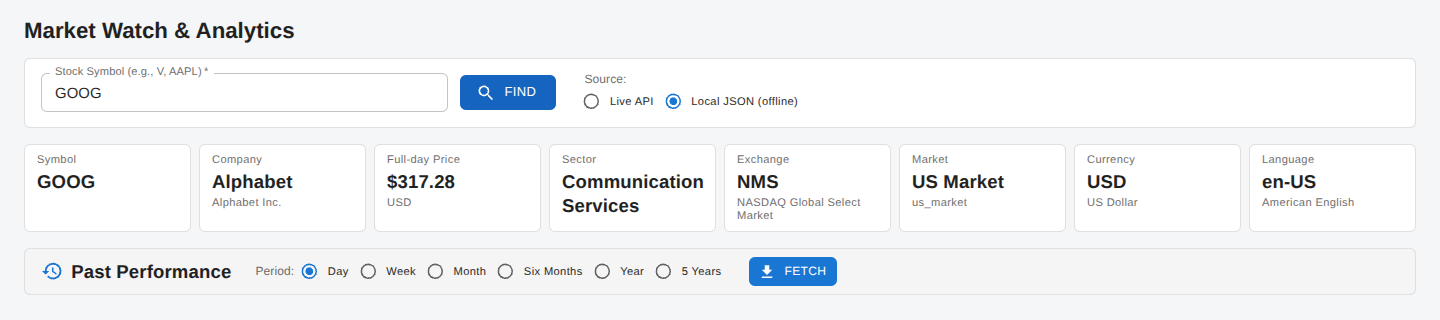
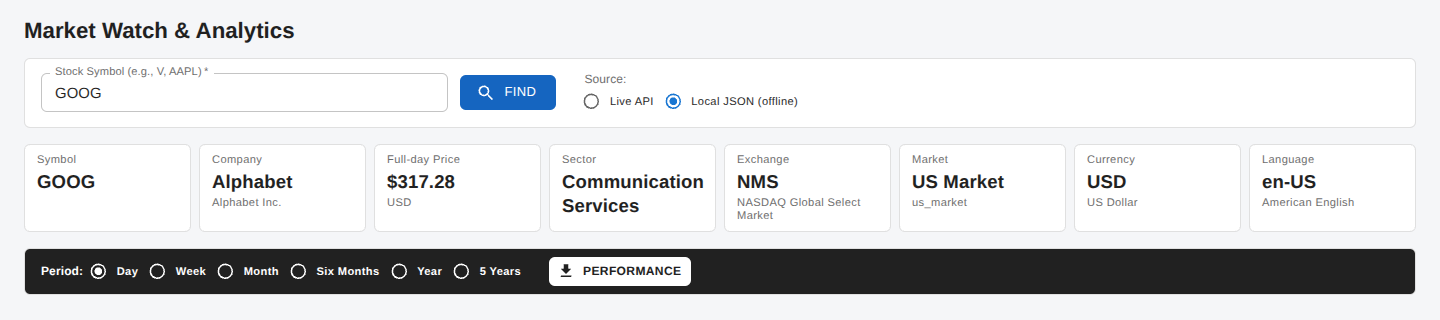
Market Watch UI - extension - sixth pass.

Changed region(s): [[0.0, 0.7812, 1.0, 0.9375]]

diff --git a/src/components/PastPerformanceSection.test.tsx b/src/components/PastPerformanceSection.test.tsx
@@ -37,14 +37,15 @@ function renderSection(overrides: Partial<PastPerformanceSectionProps> = {}) {
 }
 
 describe('PastPerformanceSection', () => {
-  it('is just a header (title, period selector, Fetch) before anything is fetched', () => {
+  it('is just a toolbar (period selector, Performance button) before anything is fetched', () => {
     renderSection();
 
     const section = screen.getByRole('region', { name: 'Past Performance' });
-    expect(within(section).getByRole('heading', { level: 2 })).toHaveTextContent('Past Performance');
+    expect(within(section).queryByRole('heading')).not.toBeInTheDocument(); // no visible title
     expect(within(section).getByRole('radiogroup', { name: 'Period:' })).toBeInTheDocument();
     expect(within(section).getByRole('radio', { name: 'Day' })).toBeChecked();
-    expect(within(section).getByRole('button', { name: 'Fetch' })).toBeEnabled();
+    expect(within(section).getByRole('button', { name: 'Performance' })).toBeEnabled();
+    expect(within(section).queryByText('Fetch')).not.toBeInTheDocument();
 
     expect(within(section).queryByTestId('price-chart-panel')).not.toBeInTheDocument();
     expect(within(section).queryByTestId('price-table-panel')).not.toBeInTheDocument();
@@ -53,13 +54,13 @@ describe('PastPerformanceSection', () => {
     expect(within(section).queryByRole('table')).not.toBeInTheDocument();
   });
 
-  it('forwards period changes and Fetch clicks', async () => {
+  it('forwards period changes and Performance clicks', async () => {
     const { onPeriodChange, onFetch } = renderSection();
 
     await userEvent.click(screen.getByRole('radio', { name: 'Week' }));
     expect(onPeriodChange).toHaveBeenCalledWith('WEEK');
 
-    await userEvent.click(screen.getByRole('button', { name: 'Fetch' }));
+    await userEvent.click(screen.getByRole('button', { name: 'Performance' }));
     expect(onFetch).toHaveBeenCalledTimes(1);
   });
 
@@ -79,7 +80,7 @@ describe('PastPerformanceSection', () => {
     renderSection({ error: { title: 'Live API timed out', message: 'The live API timed out for AAPL.' } });
     const section = screen.getByRole('region', { name: 'Past Performance' });
     expect(within(section).getByRole('alert')).toHaveTextContent('Live API timed out');
-    expect(within(section).getByRole('button', { name: 'Fetch' })).toBeEnabled();
+    expect(within(section).getByRole('button', { name: 'Performance' })).toBeEnabled();
     expect(within(section).queryByTestId('price-chart-panel')).not.toBeInTheDocument();
   });
 
@@ -97,5 +98,18 @@ describe('PastPerformanceSection', () => {
     expect(within(section).getByText('Price Intervals — Past Six Months (every 2 weeks)')).toBeInTheDocument();
     expect(within(section).getAllByRole('row')).toHaveLength(3);
     expect(within(section).getAllByRole('row')[2]).toHaveTextContent('Oct 23, 2026');
+  });
+});
+
+describe('PastPerformanceSection toolbar styling', () => {
+  it('uses a dark toolbar with white, bold period labels', () => {
+    renderSection();
+    const toolbar = screen.getByTestId('past-performance-toolbar');
+    const style = getComputedStyle(toolbar);
+    expect(style.backgroundColor).toBe('rgb(33, 33, 33)'); // theme grey.900
+    expect(style.color).toBe('rgb(255, 255, 255)');
+    const label = screen.getByText('Period:');
+    expect(getComputedStyle(label).color).toBe('rgb(255, 255, 255)');
+    expect(getComputedStyle(label).fontWeight).toBe('700');
   });
 });

diff --git a/src/components/PastPerformanceSection.tsx b/src/components/PastPerformanceSection.tsx
@@ -1,5 +1,4 @@
-import { Box, Button, CircularProgress, Divider, Paper, Typography } from '@mui/material';
-import HistoryIcon from '@mui/icons-material/History';
+import { Box, Button, CircularProgress, Divider, Paper } from '@mui/material';
 import DownloadIcon from '@mui/icons-material/Download';
 import type { LookupError } from '../errors/lookupError.ts';
 import { performancePeriodLabel, type PerformancePeriod } from '../types/performance.ts';
@@ -27,12 +26,13 @@ export interface PastPerformanceSectionProps {
   error: LookupError | null;
 }
 
-export const PAST_PERFORMANCE_HEADING_ID = 'past-performance-heading';
+/** Accessible name of the panel; it has no visible title. */
+export const PAST_PERFORMANCE_LABEL = 'Past Performance';
 
 /**
- * "Past Performance" as one panel: a header bar (title, period selector, Fetch) and — only
+ * Past-performance panel: a dark toolbar (period selector + "Performance" button) and — only
  * once a fetch is in flight, failed or loaded — the summary tiles beside the price chart and
- * the interval table. Before the first fetch the panel is just its header.
+ * the interval table. Before the first fetch the panel is just its toolbar.
  */
 export default function PastPerformanceSection({
   details,
@@ -53,11 +53,12 @@ export default function PastPerformanceSection({
   return (
     <Paper
       component="section"
-      aria-labelledby={PAST_PERFORMANCE_HEADING_ID}
+      aria-label={PAST_PERFORMANCE_LABEL}
       data-testid="past-performance"
       sx={{ display: 'flex', flexDirection: 'column', overflow: 'hidden' }}
     >
       <Box
+        data-testid="past-performance-toolbar"
         sx={{
           px: 2,
           py: 1,
@@ -65,27 +66,32 @@ export default function PastPerformanceSection({
           alignItems: 'center',
           gap: 2,
           flexWrap: 'wrap',
-          bgcolor: 'action.hover',
+          bgcolor: 'grey.900',
+          color: 'common.white',
+          fontWeight: 700,
         }}
       >
-        <Box sx={{ display: 'flex', alignItems: 'center', gap: 1, mr: 1 }}>
-          <HistoryIcon color="primary" />
-          <Typography variant="h6" component="h2" id={PAST_PERFORMANCE_HEADING_ID} sx={{ fontWeight: 600 }}>
-            Past Performance
-          </Typography>
-        </Box>
-        <PeriodSelector value={period} onChange={onPeriodChange} disabled={loading} />
+        <PeriodSelector value={period} onChange={onPeriodChange} disabled={loading} contrast />
         <Button
           variant="contained"
           size="small"
           startIcon={loading ? undefined : <DownloadIcon />}
           disabled={loading}
           onClick={onFetch}
-          aria-label="Fetch"
-          sx={{ flexShrink: 0, whiteSpace: 'nowrap', minWidth: 88 }}
+          aria-label="Performance"
+          sx={{
+            flexShrink: 0,
+            whiteSpace: 'nowrap',
+            minWidth: 132,
+            fontWeight: 700,
+            bgcolor: 'common.white',
+            color: 'grey.900',
+            '&:hover': { bgcolor: 'grey.200' },
+            '&.Mui-disabled': { bgcolor: 'grey.700', color: 'grey.400' },
+          }}
           data-testid="fetch-performance"
         >
-          {loading ? <CircularProgress size={18} color="inherit" /> : 'Fetch'}
+          {loading ? <CircularProgress size={18} color="inherit" /> : 'Performance'}
         </Button>
       </Box>
 

diff --git a/src/components/PeriodSelector.tsx b/src/components/PeriodSelector.tsx
@@ -5,15 +5,34 @@ export interface PeriodSelectorProps {
   value: PerformancePeriod;
   onChange: (period: PerformancePeriod) => void;
   disabled?: boolean;
+  /** White, bold labels and white radios for use on a dark surface. */
+  contrast?: boolean;
 }
+
+const CONTRAST_TEXT_SX = {
+  color: 'common.white',
+  fontWeight: 700,
+  '&.Mui-disabled': { color: 'common.white', opacity: 0.6 },
+} as const;
+
+const CONTRAST_RADIO_SX = {
+  color: 'common.white',
+  '&.Mui-checked': { color: 'common.white' },
+  '&.Mui-disabled': { color: 'common.white', opacity: 0.6 },
+} as const;
 
 const LABEL_ID = 'performance-period-label';
 
 /** Controlled radio group for the "Past Performance" look-back window; label and radios on one line. */
-export default function PeriodSelector({ value, onChange, disabled = false }: PeriodSelectorProps) {
+export default function PeriodSelector({ value, onChange, disabled = false, contrast = false }: PeriodSelectorProps) {
   return (
     <Box sx={{ display: 'flex', alignItems: 'center', gap: 1 }} data-testid="period-selector">
-      <FormLabel id={LABEL_ID} component="span" disabled={disabled} sx={{ fontSize: '0.75rem', whiteSpace: 'nowrap' }}>
+      <FormLabel
+        id={LABEL_ID}
+        component="span"
+        disabled={disabled}
+        sx={{ fontSize: '0.75rem', whiteSpace: 'nowrap', ...(contrast ? CONTRAST_TEXT_SX : {}) }}
+      >
         Period:
       </FormLabel>
       <RadioGroup
@@ -30,11 +49,15 @@ export default function PeriodSelector({ value, onChange, disabled = false }: Pe
           <FormControlLabel
             key={option.value}
             value={option.value}
-            control={<Radio size="small" sx={{ py: 0.5 }} />}
+            control={<Radio size="small" sx={{ py: 0.5, ...(contrast ? CONTRAST_RADIO_SX : {}) }} />}
             label={option.label}
             disabled={disabled}
-            slotProps={{ typography: { variant: 'caption' } }}
-            sx={{ mr: 1.5 }}
+            slotProps={{ typography: { variant: 'caption', sx: contrast ? CONTRAST_TEXT_SX : undefined } }}
+            sx={{
+              mr: 1.5,
+              // MUI dims disabled labels to text.disabled; keep them legible on the dark toolbar.
+              ...(contrast ? { '& .MuiFormControlLabel-label.Mui-disabled': { color: 'common.white', opacity: 0.6 } } : {}),
+            }}
           />
         ))}
       </RadioGroup>

diff --git a/src/App.test.tsx b/src/App.test.tsx
@@ -61,7 +61,7 @@ async function lookup(symbol: string, source: 'api' | 'local') {
 const periodRadio = (label: string | RegExp) =>
   within(screen.getByTestId('period-selector')).getByRole('radio', { name: label });
 
-const fetchButton = () => screen.getByRole('button', { name: /fetch/i });
+const fetchButton = () => screen.getByRole('button', { name: 'Performance' });
 
 describe('App', () => {
   it('renders the detail tiles from GET /stock/{symbol} for the live API source', async () => {
@@ -83,7 +83,7 @@ describe('App', () => {
     expect(Array.from(grid.children).map((tile) => tile.textContent)).toEqual(EXPECTED_AAPL_TILES);
   });
 
-  it('shows a "Past Performance" header beneath the tiles, with no chart or table until Fetch is clicked', async () => {
+  it('shows the past-performance toolbar beneath the tiles, with no chart or table until Performance is clicked', async () => {
     render(<App service={buildService()} lookupOptions={{ minLoadingMs: 0 }} />);
     await lookup('META', 'local');
     await screen.findByTestId('summary-symbol');
@@ -92,14 +92,14 @@ describe('App', () => {
     const tiles = screen.getByTestId('detail-tiles');
     expect(tiles.compareDocumentPosition(section) & Node.DOCUMENT_POSITION_FOLLOWING).toBeTruthy();
 
-    expect(within(section).getByRole('button', { name: 'Fetch' })).toBeEnabled();
+    expect(within(section).getByRole('button', { name: 'Performance' })).toBeEnabled();
     expect(within(section).queryByTestId('price-chart-panel')).not.toBeInTheDocument();
     expect(within(section).queryByTestId('price-table-panel')).not.toBeInTheDocument();
     expect(screen.queryByRole('table')).not.toBeInTheDocument();
     expect(screen.queryByTestId('summary-tiles')).not.toBeInTheDocument();
   });
 
-  it('changing the period hides the loaded chart and table until Fetch is clicked again', async () => {
+  it('changing the period hides the loaded chart and table until Performance is clicked again', async () => {
     render(<App service={buildService()} lookupOptions={{ minLoadingMs: 0 }} />);
     await lookup('AAPL', 'local');
     await screen.findByTestId('summary-symbol');

diff --git a/src/App.default.test.tsx b/src/App.default.test.tsx
@@ -75,7 +75,7 @@ describe('App (default service wiring)', () => {
     await userEvent.type(screen.getByLabelText(/stock symbol/i), 'AAPL{enter}');
     await screen.findByTestId('summary-symbol');
     await userEvent.click(screen.getByRole('radio', { name: 'Month' }));
-    await userEvent.click(screen.getByRole('button', { name: 'Fetch' }));
+    await userEvent.click(screen.getByRole('button', { name: 'Performance' }));
 
     expect(await screen.findByTestId('summary-tiles')).toBeInTheDocument();
     expect(screen.getByTestId('summary-high')).toHaveTextContent('$351.73');

diff --git a/README.md b/README.md
@@ -2,7 +2,7 @@
 
 A small React + TypeScript + Vite app that looks up a stock symbol and shows its reference
 data (company, sector, exchange, market, currency, …) plus a "Past Performance" section: pick a
-period (day … 5 years), click Fetch, and get the high/low tiles, price-trend chart and interval table.
+period (day … 5 years), click Performance, and get the high/low tiles, price-trend chart and interval table.
 
 ## Scripts
 
@@ -105,9 +105,10 @@ The UI is a single-screen dashboard (`Container maxWidth={false}`):
   fields: Symbol, Company (display name + long name), Full-day Price (formatted in the stock's currency),
   Sector, Exchange (code + name for known codes), Market (humanised), Currency and Language (code + name
   via `Intl.DisplayNames`). Tiles for absent fields are not rendered.
-- **Past Performance** — a single panel beneath the tiles. Its header bar holds the title, the period radio
-  group right beside it (Day / Week / Month / Six Months / Year / 5 Years, default Day; the choice persists
-  across lookups) and a **Fetch** button. Until Fetch is clicked the panel is just this header. Fetch calls `/historic` and `/highlow` together for the loaded symbol, the
+- **Past Performance** — a single panel beneath the tiles, with no visible title (the region is named
+  "Past Performance" for assistive tech). Its dark toolbar holds the period radio group in white bold text
+  (Day / Week / Month / Six Months / Year / 5 Years, default Day; the choice persists across lookups) and a
+  white **Performance** button. Until Performance is clicked the panel is just this toolbar. It calls `/historic` and `/highlow` together for the loaded symbol, the
   selected period and the source the symbol was loaded from, with its own loading indicator and error
   banner inside the panel. Results render as: Latest Price (with change over the period) plus High
   and Low tiles (with when they occurred) in a 15% column beside the price chart (fixed 280px height,
@@ -115,7 +116,7 @@ The UI is a single-screen dashboard (`Container maxWidth={false}`):
   the loaded period and sampling interval (e.g. "Past Week (daily)"). The chart and table are rendered
   `embedded` (no border of their own) so the group reads as one unit. Results belong to the period they
   were fetched for: changing the radio (or looking up another symbol) removes them, and nothing is shown
-  again until the next Fetch. Stacks vertically on small screens.
+  again until Performance is clicked again. Stacks vertically on small screens.
 - **Lookup lifecycle** — clicking Find clears any previous results immediately and shows a
   "Fetching results for X…" indicator for at least one second (`withMinimumDuration`), so even
   the instant local source gives visible feedback. Failures render as a styled `ErrorBanner` with a
@@ -133,8 +134,8 @@ Captured with headless Chromium at 1440px — see `docs/screenshots/`:
 | --- | --- |
 | `00-initial.png` | Empty state; "Find" disabled until a symbol is entered |
 | `01-loading.png` | "Fetching results…" indicator (shown for at least 1 s, even for the local source) |
-| `AAPL.png`, `GOOG.png`, `META.png` | Detail tiles and the Past Performance header before fetching |
-| `AAPL-WEEK.png`, `GOOG-DAY.png`, `META-FIVE_YEAR.png` | After Fetch: high/low tiles, chart and table for the period (offline fixtures) |
+| `AAPL.png`, `GOOG.png`, `META.png` | Detail tiles and the past-performance toolbar before fetching |
+| `AAPL-WEEK.png`, `GOOG-DAY.png`, `META-FIVE_YEAR.png` | After Performance: high/low tiles, chart and table for the period (offline fixtures) |
 | `live-META.png` | Same via the live API (`/stock`, `/historic`, `/highlow` served by a stub), Week |
 | `90-not-found.png` | Unknown symbol in the offline data, with clickable suggestions |
 | `91-live-api-unreachable.png` | Live API selected with no endpoint configured |
@@ -159,7 +160,7 @@ src/
   services/stockAnalytics.ts              pure trend / change% / label formatting / PastPerformance assembly
   services/stockService.ts                provider registry -> lookup(details) and performance(historic + highlow)
   hooks/useStockLookup.ts                 async state of the symbol lookup (+ the source it loaded from)
-  hooks/usePerformanceLookup.ts           async state of the Fetch (data / loading / pendingPeriod / error, reset)
+  hooks/usePerformanceLookup.ts           async state of the Performance fetch (data / loading / pendingPeriod / error, reset)
   errors/lookupError.ts                   maps thrown errors to a presentable { title, message, hint, suggestions }
   utils/symbol.ts                         normalizeSymbol
   utils/timing.ts                         delay, withMinimumDuration
